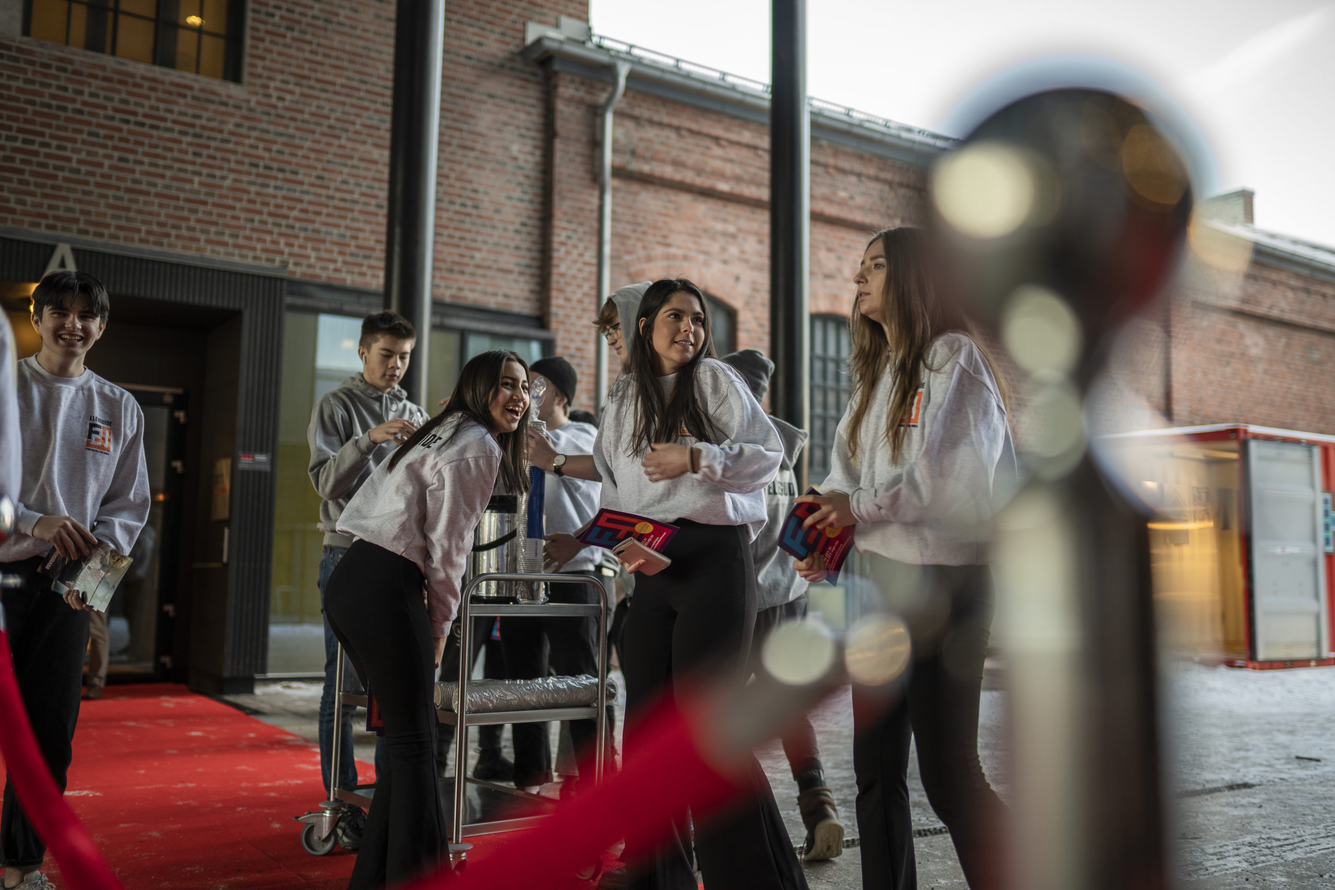
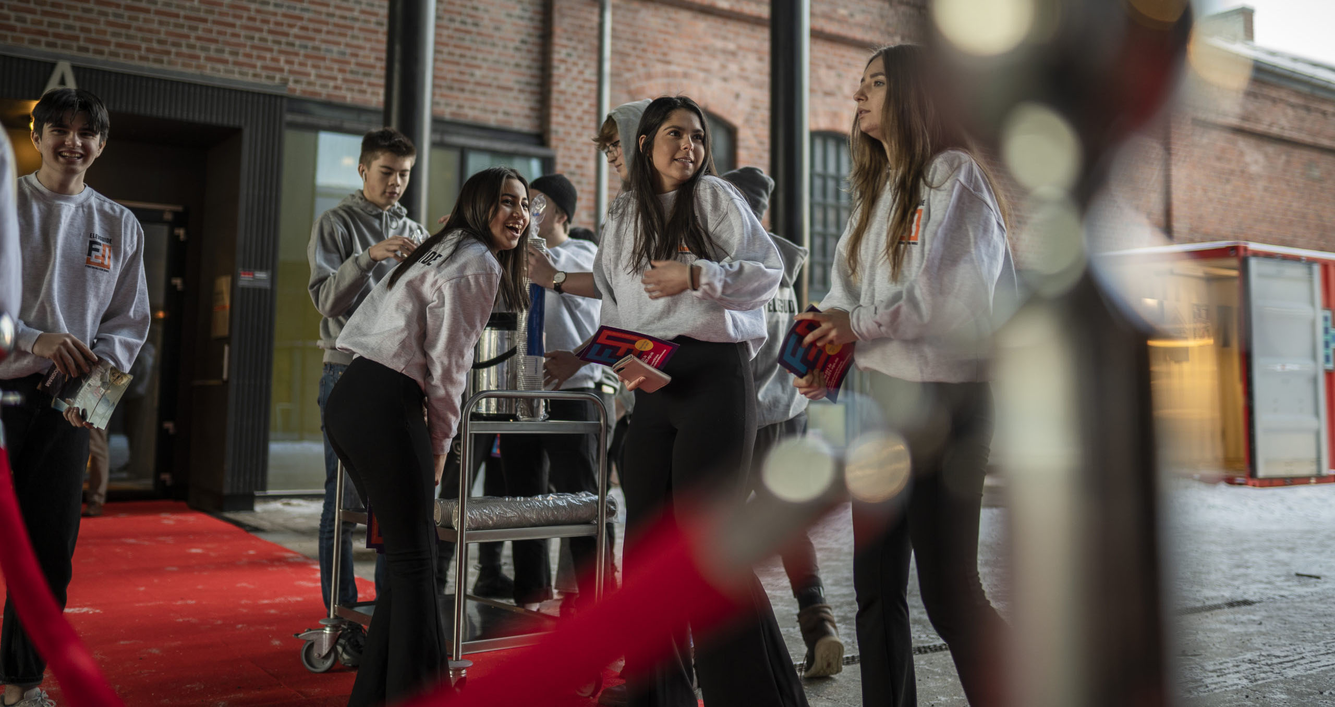
Fikset cropping i velkommen klassen

diff --git a/se-streamen.html b/se-streamen.html
@@ -28,7 +28,7 @@
                     <b>Velkommen!</b>
                 </div>
             </div>
-            <h2>Se bilder fra åpen dag</h3>
+            <h2>Se bilder fra åpen dag</h2>
                 <div id="karusell" data-album="bilde" data-antall="4">
                     <img src="" id="karusellbilde">
                     <div id="progress"></div>

diff --git a/style.css b/style.css
@@ -230,7 +230,7 @@ nav li {
 .velkommen {
     background-image: url("bilder/Jonis.jpg");
     background-size: cover;
-    height: 30vh;
+    height: 300px;
 
 }
 
